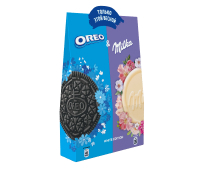
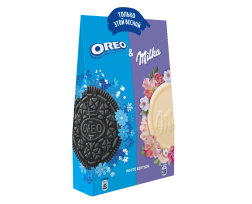
sku update

diff --git a/css/styles.css b/css/styles.css
@@ -2165,33 +2165,45 @@ table td {
 	max-width: 210px;
 }
 
+.waffles-group .products-item:nth-child(2) {
+    max-width: 260px;
+}
+
 .cake-group .products-item {
-	max-width: 184px;
+    max-width: 184px;
 }
 
 .box-group .products-item,
 .bar-group .products-item,
 .waffles-group .products-item {
-	margin-left: auto;
-	margin-right: auto;
+    margin-left: auto;
+    margin-right: auto;
 }
 
 .products-item-img {
-	display: flex;
-	-ms-align-items: center;
-	align-items: center;
-	justify-content: center;
+    display: flex;
+    -ms-align-items: center;
+    align-items: center;
+    justify-content: center;
     max-width: 76px;
-	width: 100%;
-	min-height: 171px;
-	margin: 0 auto 5px;
+    width: 100%;
+    min-height: 171px;
+    margin: 0 auto 5px;
 }
 
 .big-group .products-item-img,
 .box-group .products-item-img,
 .bar-group .products-item-img,
 .waffles-group .products-item-img {
-	max-width: 208px;
+    max-width: 208px;
+}
+
+.waffles-group .products-item-img {
+    min-height: 204px;
+}
+
+.waffles-group .products-item:nth-child(2) .products-item-img {
+    max-width: 252px;
 }
 
 .cake-group .products-item-img {

diff --git a/css/styles_webp.css b/css/styles_webp.css
@@ -2165,6 +2165,10 @@ table td {
     max-width: 210px;
 }
 
+.waffles-group .products-item:nth-child(2) {
+    max-width: 260px;
+}
+
 .cake-group .products-item {
     max-width: 184px;
 }
@@ -2192,6 +2196,14 @@ table td {
 .bar-group .products-item-img,
 .waffles-group .products-item-img {
     max-width: 208px;
+}
+
+.waffles-group .products-item-img {
+    min-height: 204px;
+}
+
+.waffles-group .products-item:nth-child(2) .products-item-img {
+    max-width: 252px;
 }
 
 .cake-group .products-item-img {
